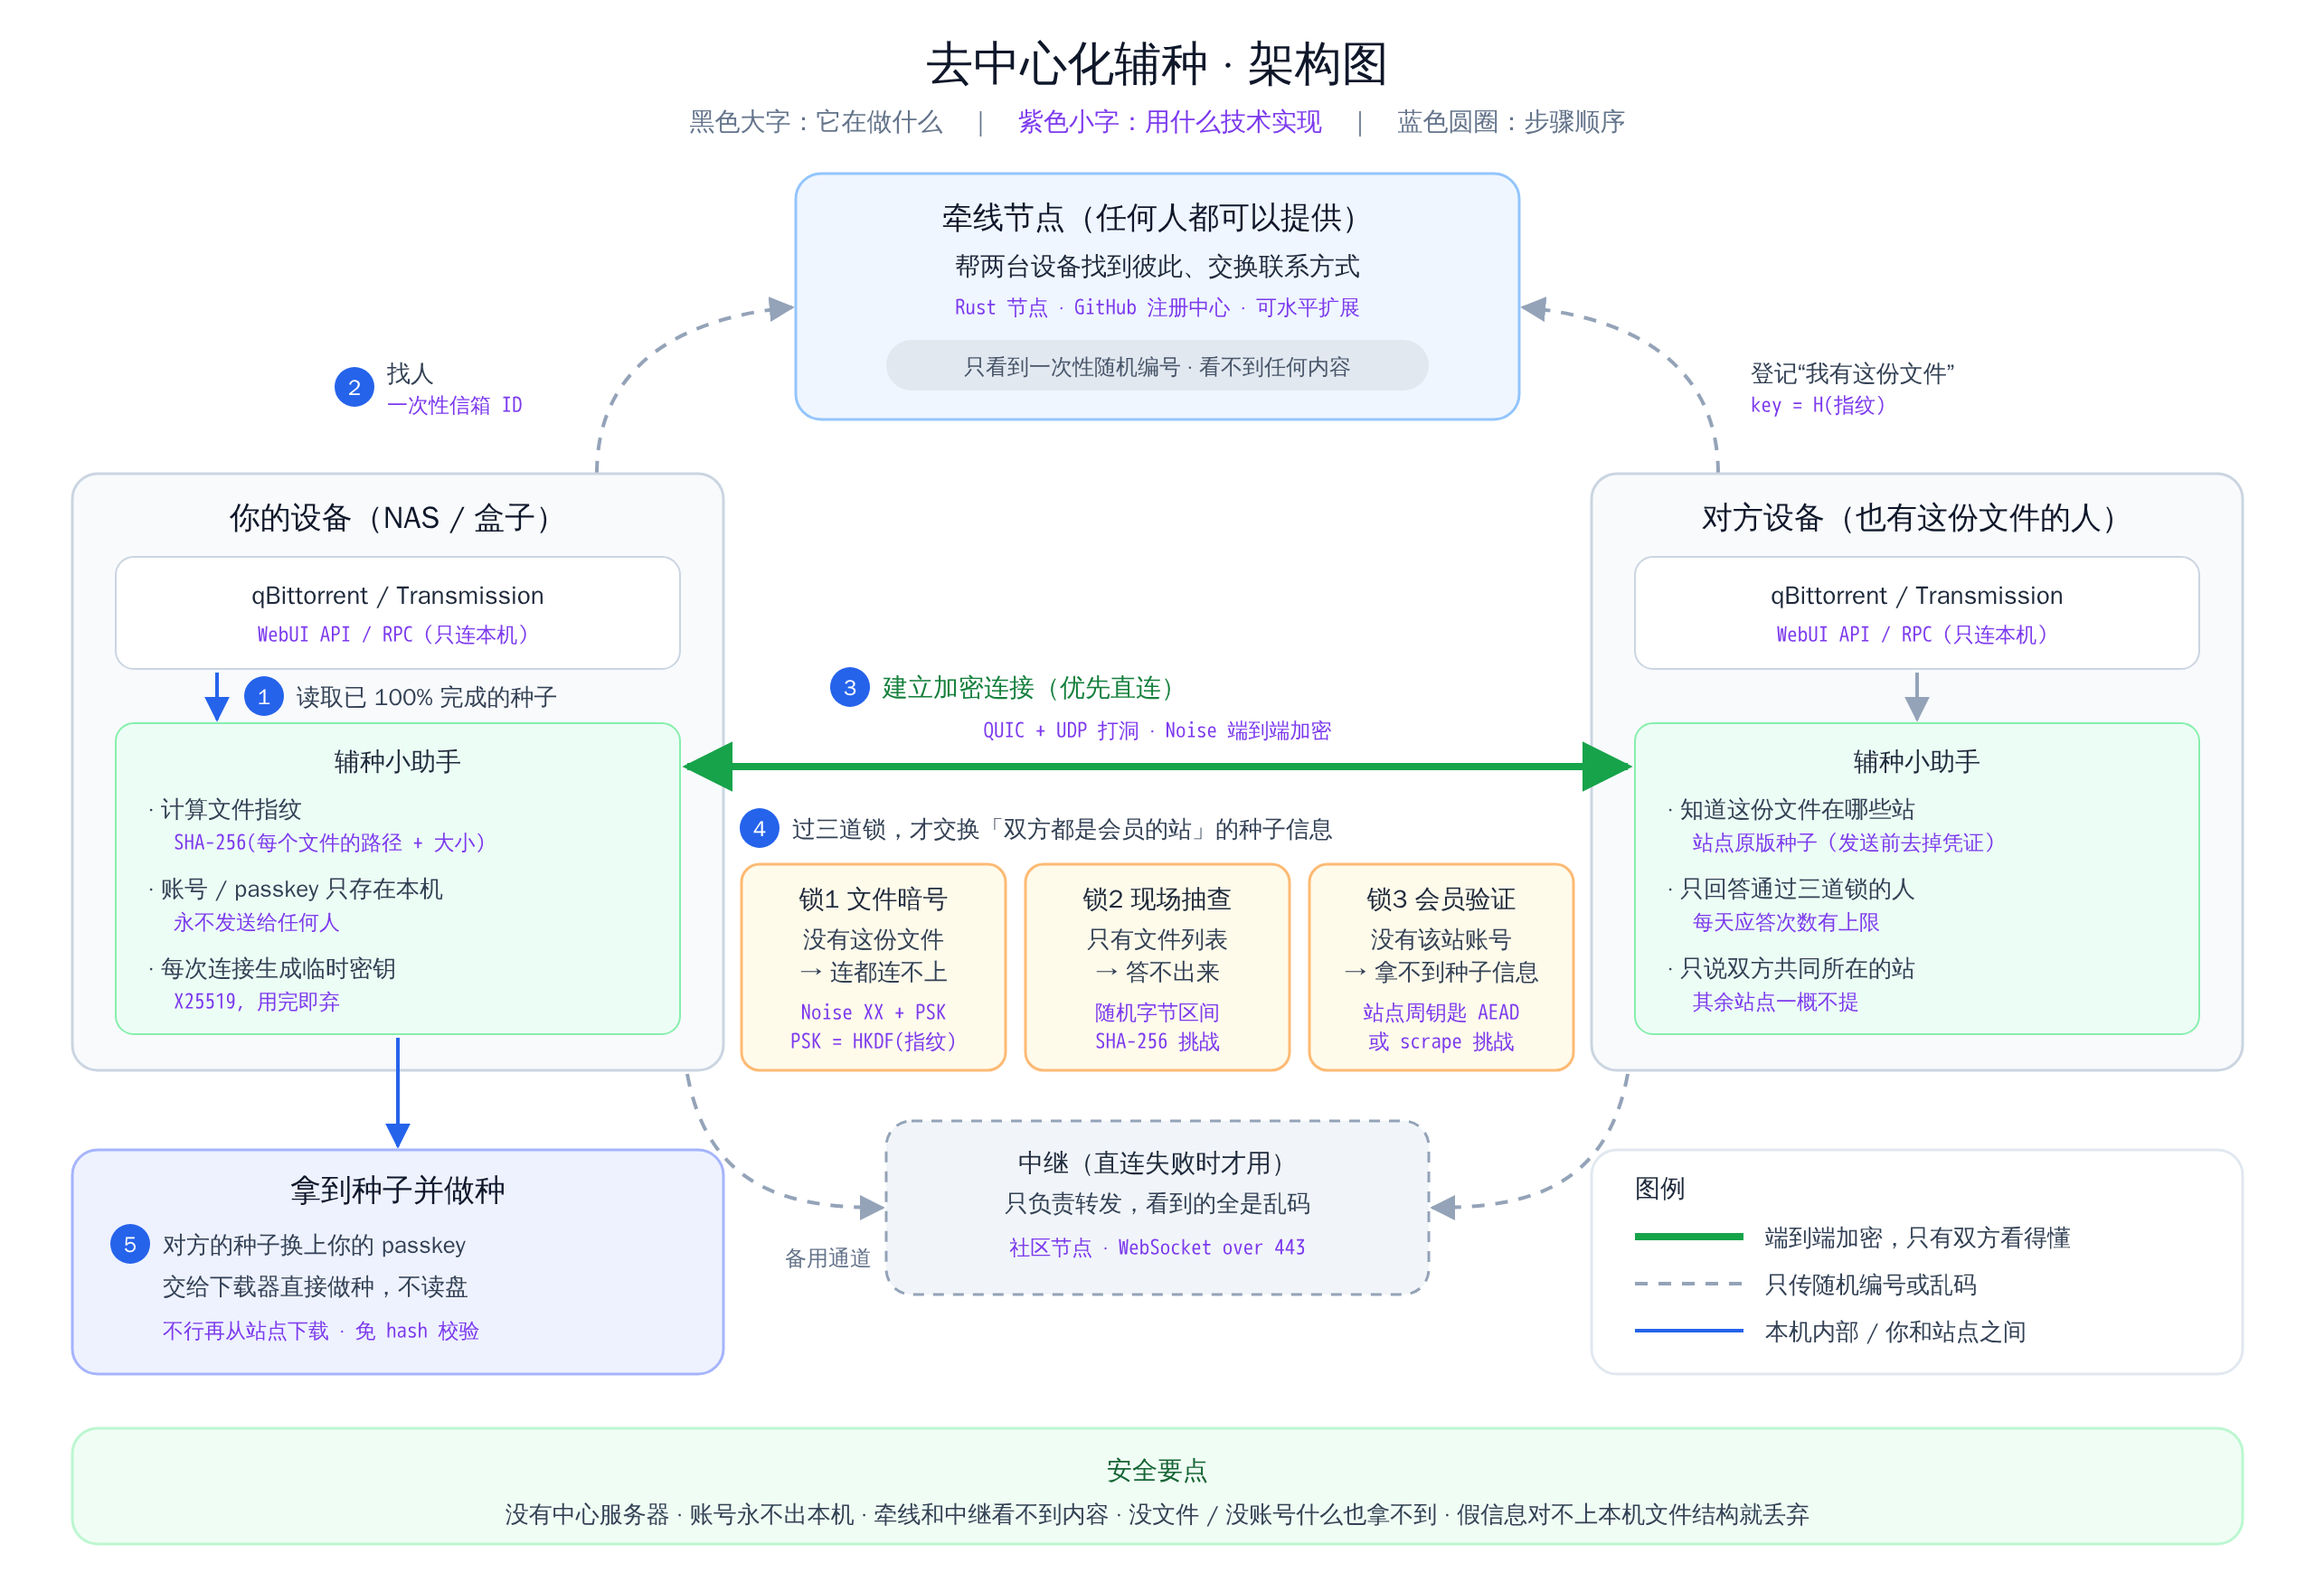
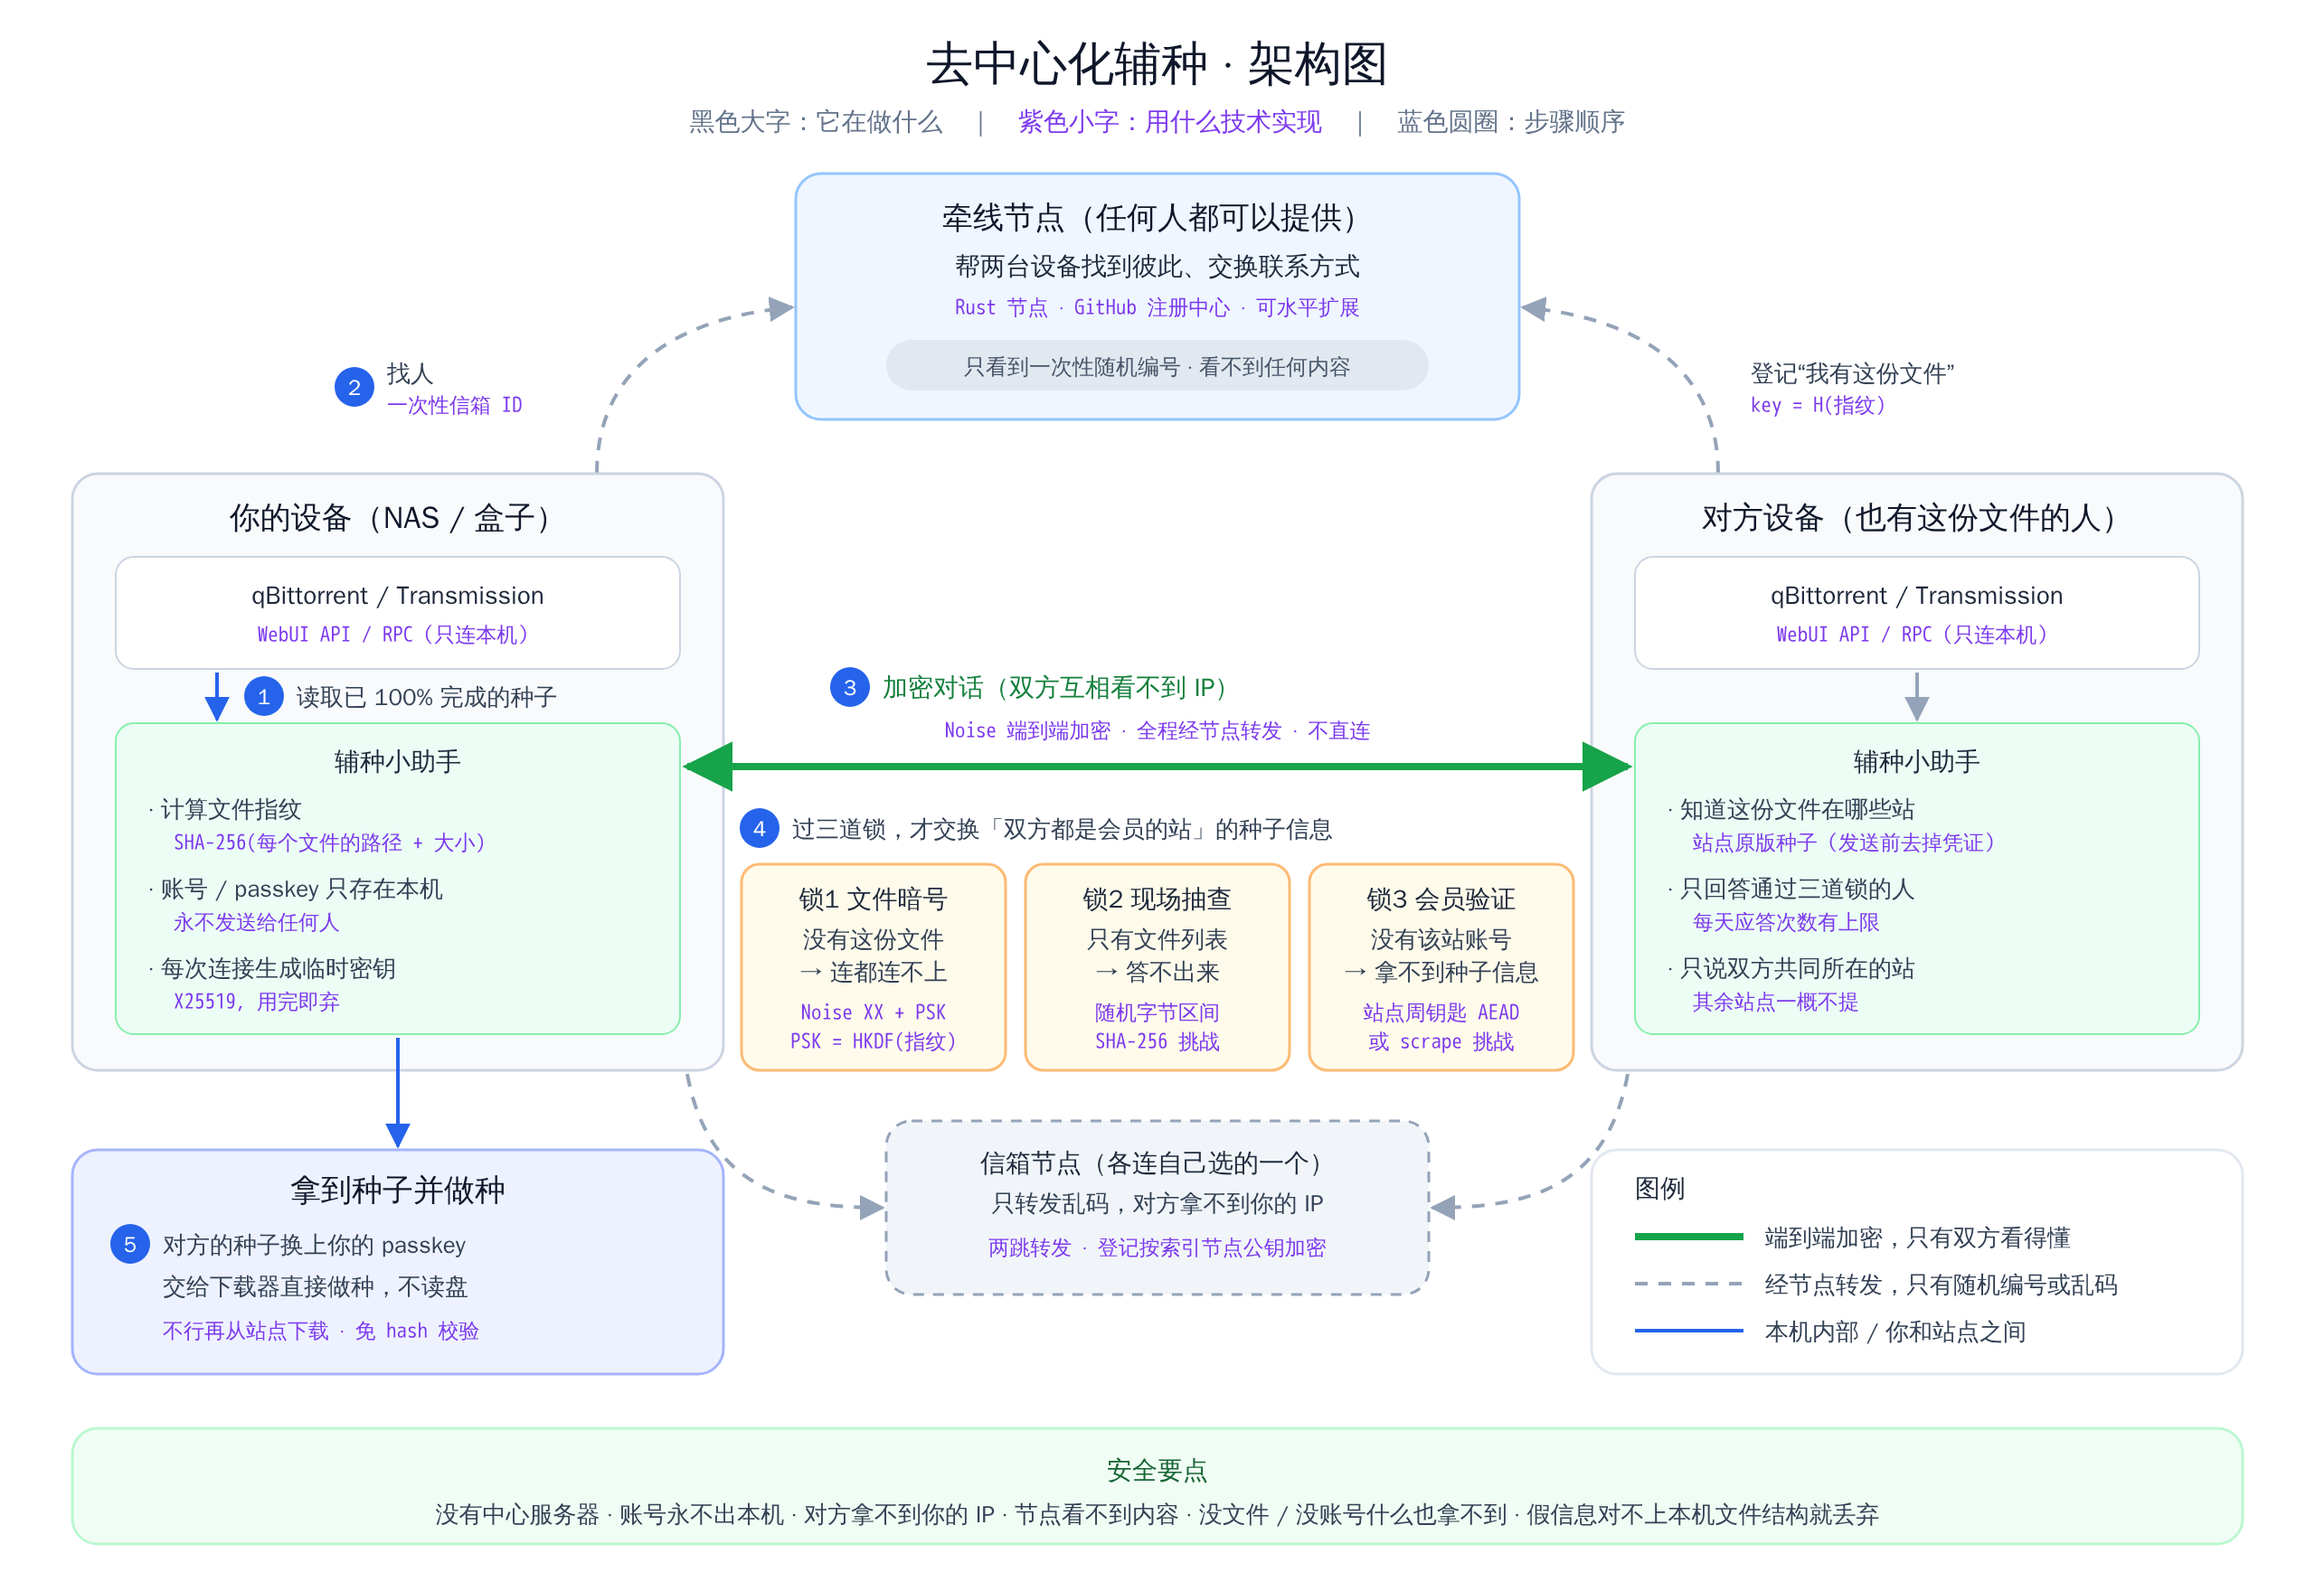
文档：xseed 落地设计 v0.6（隐藏 IP：取消设备直连，经双方信箱节点转发；登记与查询两跳加密转发；分析绕过 tracker 直连下载的攻击）；同步征求意见稿与架构图

diff --git a/docs/proposals/去中心化辅种-征求意见稿.md b/docs/proposals/去中心化辅种-征求意见稿.md
@@ -46,6 +46,7 @@
 |---|---|---|
 | 外人能不能拿到某站的资源列表？ | **不能** | 每次只能问“我手里这份文件”，问之前要过锁①②，问完还要过锁③。没有文件、没有账号，什么也问不到，也无法批量枚举 |
 | 别人能不能知道我有哪些文件、在哪些站？ | **不能** | 每次对话只涉及一份文件，而且对方本来就有这份文件；你在其他站的账号不会被透露，只有双方都是会员的站才会被提到 |
+| 别人能不能拿到我的 IP，绕过 tracker 直接连我的下载器下载？ | **不能** | 你的设备只连你自己选的节点，所有对话都经节点转发，对方永远看不到你的 IP；登记内容也经过两个节点转发并加密，单个节点无法把 IP 和你有什么文件联系起来 |
 | 帮忙牵线的服务器、中继能不能偷看？ | **不能** | 加密密码由文件算出，只在两台电脑上生成，它们手里没有；它们转发的全是乱码，也无法冒充任何一方 |
 | 我的账号、passkey 会不会被发出去？ | **不会** | passkey 只保存在你自己的设备上，只用来从站点下载种子；发给对方的种子会先去掉 passkey、用户名等个人信息，只保留站点的公共内容 |
 | 有人故意发假的种子信息怎么办？ | **伤不到你** | 拿到的种子会先核对特征值和本机文件结构，对不上直接丢弃；不会下载任何数据，也不会动你的文件 |
@@ -54,13 +55,13 @@
 ### 做不到的地方（实话实说）
 
 - **不配合的站点**：会员把自己的 passkey 借给外人，外人就能冒充会员通过验证。这一点无法根除，配合的站点没有这个问题。
-- **直连会让对方看到你的 IP**：可以开启“只走中继”，中继只能看到乱码。
+- **你选的那个节点知道你的 IP**（但不知道你有什么文件、在和谁说话）。介意的话可以自己搭一个节点。
 - **对方会知道你也有这份文件、和他在同一个站**：这是辅种本身绕不开的。
 - **会员钥匙如果被泄露**，最多在一周内有效，之后会自动更换。
 
 ## 牵线和中继由谁提供
 
-大部分情况下两台电脑能直接连上（打洞），连不上时才需要中继转发。牵线和中继由**节点**提供：
+为了不暴露 IP，两台电脑**从不直接连接**：每台设备只连自己选的一个节点，对话由双方的节点转发（只是几十 KB 的小消息）。节点由社区提供：
 
 - **任何人都可以提供节点**：一台 1c1g 的服务器跑一个 Rust 程序，预计就能承载 1–2 万台设备。节点之间互不通信，节点越多，每个节点承担的工作越少，能看到的信息也越少。
 - **节点列表放在 GitHub 上公开登记**，签名后发布，小助手定时拉取；你也可以只用自己搭的节点。
@@ -72,6 +73,6 @@
 1. 安全性上还有哪些担心没有被回答？
 2. 站长们，你们愿意让站点参与吗？在什么条件下愿意？
 3. 你能接受在 NAS 上多运行一个小程序吗？
-4. 你愿意提供节点吗？你所在网络能否直连境外节点？
+4. 你愿意提供节点吗？你所在网络能否访问境外节点？
 
 反馈地址：<https://github.com/imythu/pt-studio/issues>
